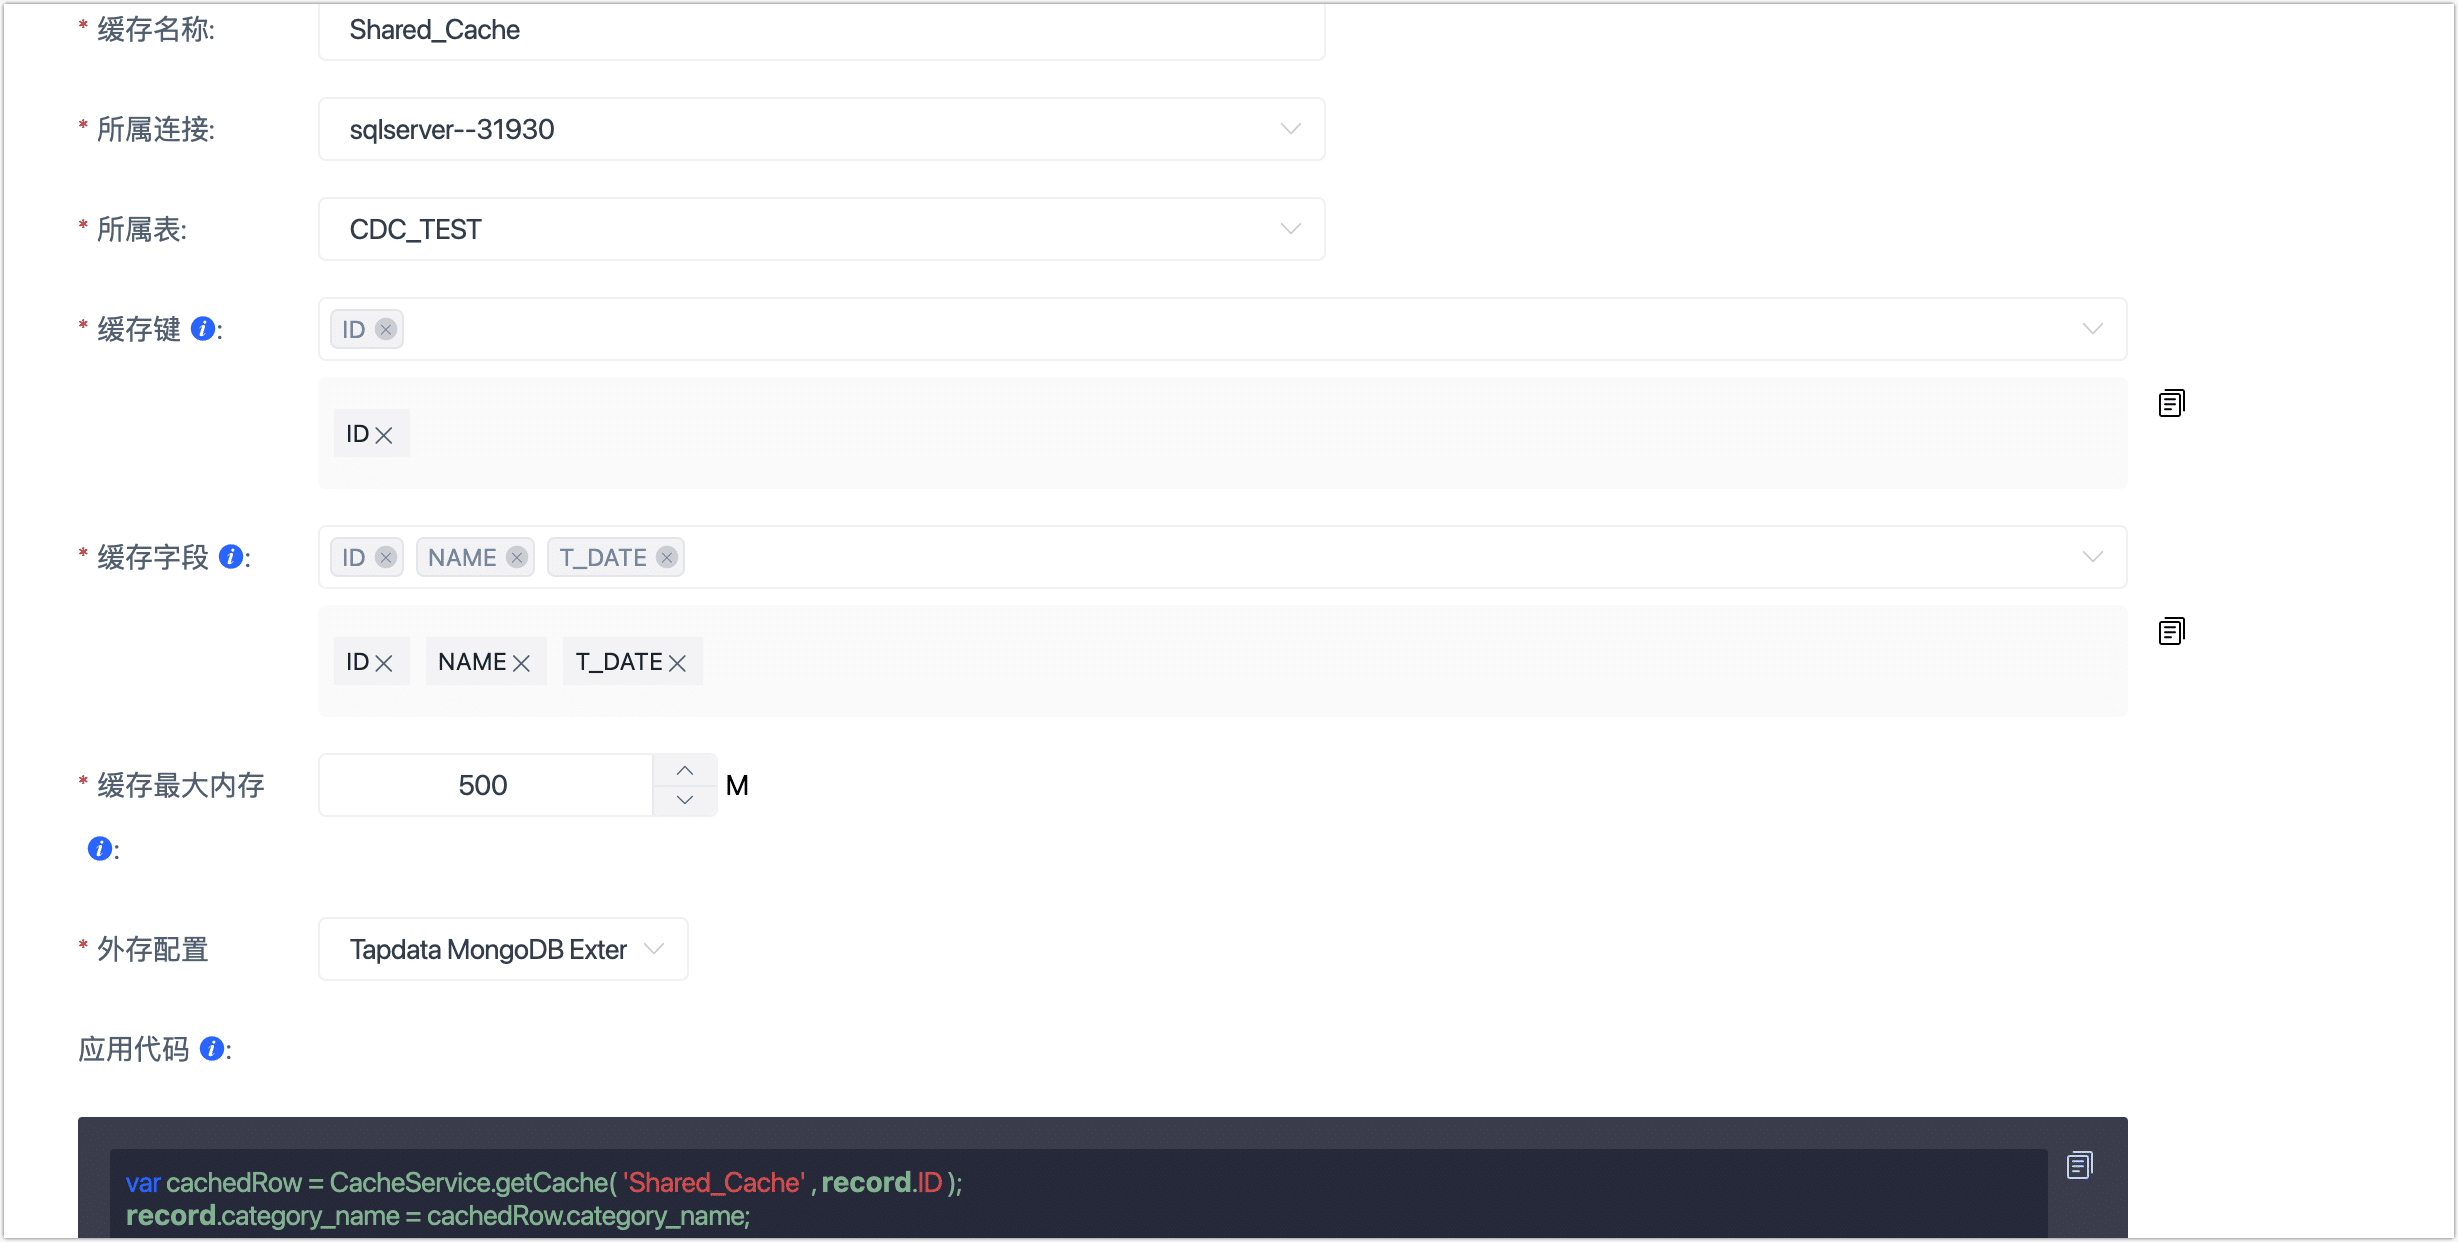
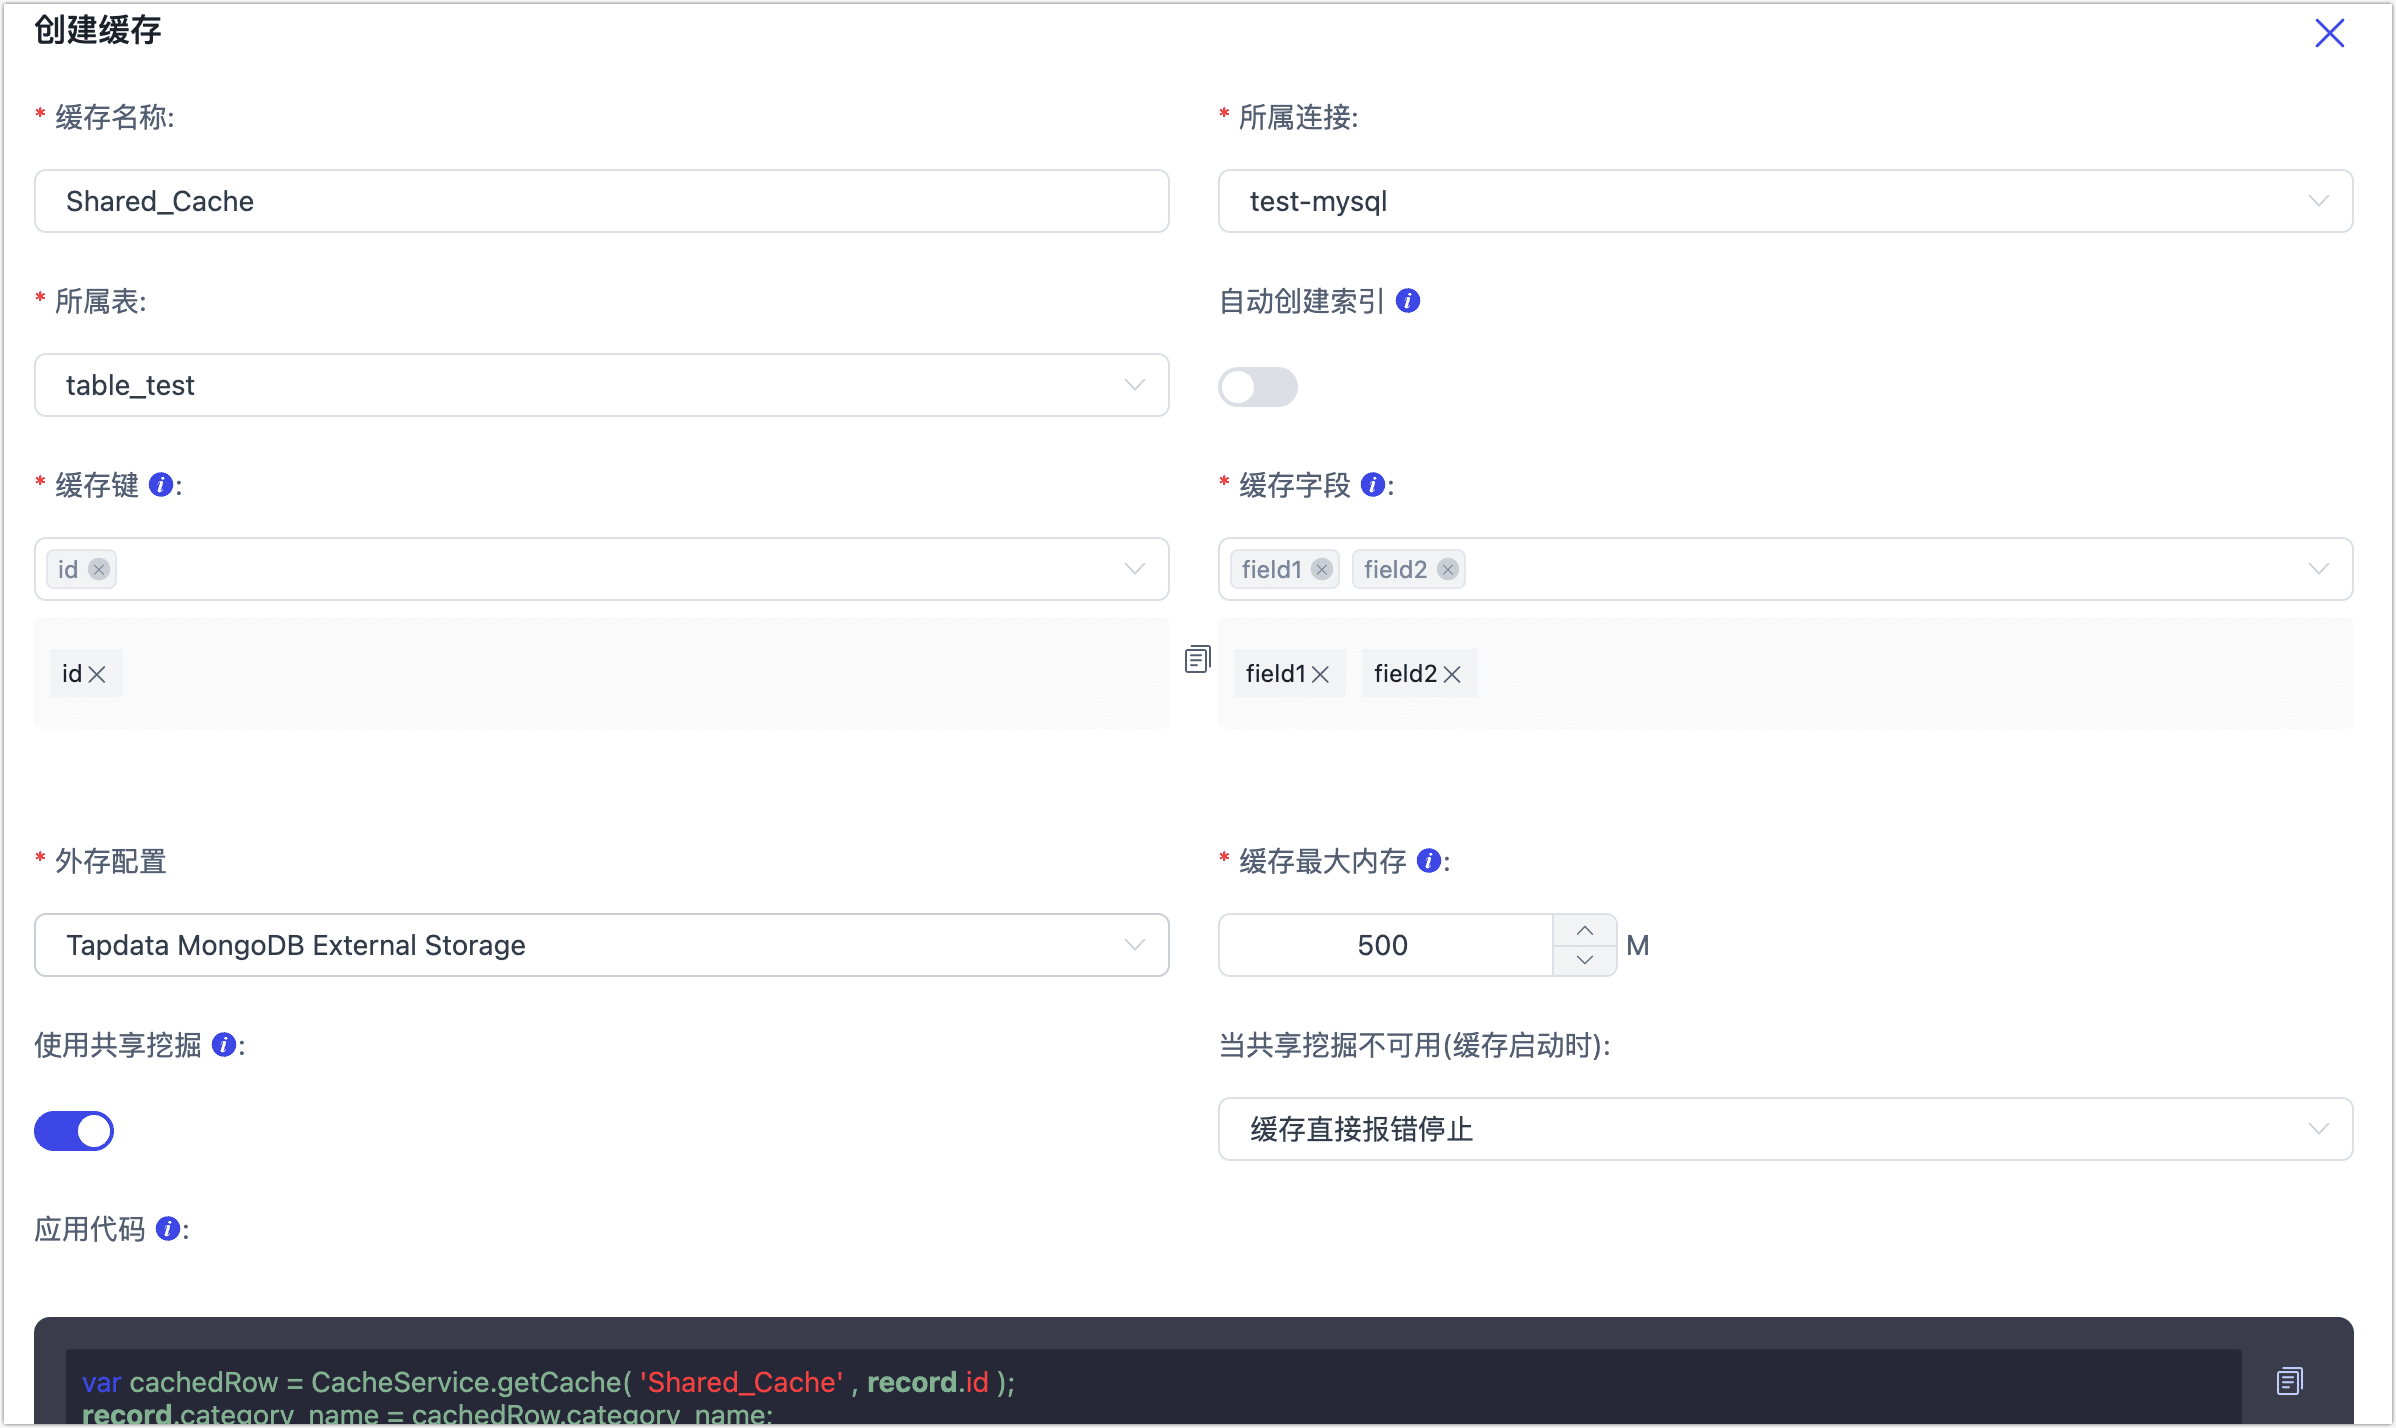
Release  v3.9

diff --git a/docs/release-notes/release-notes-on-prem.md b/docs/release-notes/release-notes-on-prem.md
@@ -6,6 +6,36 @@ import Content from '../reuse-content/_enterprise-features.md';
 
 本文介绍 TapData Enterprise V3.x 的版本更新日志，早期版本请参见 [V2.x 版本更新日志](https://docs.tapdata.net/2.0/release-notes)。
 
+## 3.9.0
+
+### 新增功能
+
+* [数据校验](../user-guide/data-pipeline/verify-data.md)新增差异数据修复能力，提升数据一致性和准确性
+* 创建[共享缓存](../user-guide/advanced-settings/share-cache.md)新增使用共享挖掘按钮，简化缓存任务配置，提升缓存共享的效率和灵活性
+
+### 功能优化
+
+* [实时数据中心](../user-guide/real-time-data-hub/README.md)功能优化：
+  * 数据加工层支持显示库中所有模型
+  * 平台缓存层与平台加工层可选择不同的的连接，设置后不可调整
+  * 增加 API 发布入口
+  * 优化模型详情的展示
+* ElasticSearch 数据源添加字段限制配置参数
+* MongoDB 数据源开启 preimage 能力时，优化异常处理逻辑
+
+### 问题修复
+
+- 修复任务事件统计指标上报时偶现丢失部分指标的问题
+- 修复共享缓存任务未执行共享挖掘时，如果数据没有变化，在重启或升级引擎时可能因超出日志时间窗口而导致任务错误的问题
+- 修复在 MDM_model 下禁用从节点后导致任务启动失败的问题
+- 修复实时数据中心的血缘图偶现无法展示的问题
+- 修复在写入模式为更新子文档的场景下，源表的 unset 操作可能导致任务报错的问题
+- 修复校验任务搜索功能不可用的问题
+- 修复 MongoDB 与 MySQL 执行 Join 合并场景下，MongoDB 集合中包含时间类型可能引发报错的问题
+- 修复在实时数据中心创建的任务无法添加主从合并节点的问题
+- 修复在主从合并场景下，增量更新事件意外执行反查的问题
+- 修复主从合并节点修改列时的冲突报错问题
+
 ## 3.8.0
 
 ### 新增功能

diff --git a/docs/user-guide/advanced-settings/share-cache.md b/docs/user-guide/advanced-settings/share-cache.md
@@ -21,13 +21,14 @@ import Content from '../../reuse-content/_enterprise-and-community-features.md';
    ![共享缓存](../../images/apply_external_storage_shared_cache_cn.png)
 
    * **缓存名称**：必填、支持中英文。
-   * **缓存主键**：必填、可多选，用来对数据进行唯一识别。
-   * **所属连接**：选择一个想要缓存的连接。
+   * **所属连接**：选择一个想要缓存的数据源连接。
    * **所属表**：选择想要缓存的表。
-   * **缓存键**：选择一个字段作为主键识别数据进行缓存。
+   * **缓存键**：可多选，用来对数据进行唯一识别，该键需具备索引。
    * **缓存字段**：选择需要进行缓存的常用字段。
-   * **缓存最大内存**：系统会保存的最大内存量，超过则按调用时间，将最不常用的数据删掉
    * **外存配置**：选择外存，您为缓存单独[创建外存](../manage-system/manage-external-storage.md)来存储相关数据。
+   * **缓存最大内存**：系统会保存的最大内存量，超过则按调用时间，将最不常用的数据删掉。
+   * **使用共享挖掘**：共享挖掘会挖掘增量日志，当有多个增量任务时不需要重复开启日志采集进程，能极大缓解源库资源的占用和浪费。
+   * **缓存最大内存**：默认为 500 MB，TapData 会保存的最大内存量，超过则按调用时间，将最不常用的数据删掉
    * **应用代码**：根据填写的信息生成，可复制后在任务的 JS 节点中进行使用该缓存。
 
 5. 单击**保存**。

diff --git a/docs/release-notes/release-notes-cloud.md b/docs/release-notes/release-notes-cloud.md
@@ -17,6 +17,30 @@ import TabItem from '@theme/TabItem';
   <TabItem value="2024 年" default>
 ```
 
+### 2024-07-05
+
+#### 功能优化
+
+* [实时数据中心](../user-guide/real-time-data-hub/README.md)功能优化：
+  * 数据加工层支持显示库中所有模型
+  * 平台缓存层与平台加工层可选择不同的的连接，设置后不可调整
+  * 增加 API 发布入口
+  * 优化模型详情的展示
+* ElasticSearch 数据源添加字段限制配置参数
+* MongoDB 数据源开启 preimage 能力时，优化异常处理逻辑
+
+#### 问题修复
+
+- 修复任务事件统计指标上报时偶现丢失部分指标的问题
+- 修复共享缓存任务未执行共享挖掘时，如果数据没有变化，在重启或升级引擎时可能因超出日志时间窗口而导致任务错误的问题
+- 修复在 MDM_model 下禁用从节点后导致任务启动失败的问题
+- 修复实时数据中心的血缘图偶现无法展示的问题
+- 修复在写入模式为更新子文档的场景下，源表的 unset 操作可能导致任务报错的问题
+- 修复 MongoDB 与 MySQL 执行 Join 合并场景下，MongoDB 集合中包含时间类型可能引发报错的问题
+- 修复在实时数据中心创建的任务无法添加主从合并节点的问题
+- 修复在主从合并场景下，增量更新事件意外执行反查的问题
+- 修复主从合并节点修改列时的冲突报错问题
+
 ### 2024-06-21
 
 #### 新增功能

diff --git a/docs/release-notes/release-notes-community.md b/docs/release-notes/release-notes-community.md
@@ -6,6 +6,26 @@ import Content from '../reuse-content/_community-features.md';
 
 本文介绍 TapData Community 近期版本的更新日志，更多早期版本，请参见 [GitHub Release 页面](https://github.com/tapdata/tapdata/releases)。
 
+## 3.9.0
+
+### 新增功能
+
+* 创建[共享缓存](../user-guide/advanced-settings/share-cache.md)新增使用共享挖掘按钮，简化缓存任务配置，提升缓存共享的效率和灵活性
+
+### 功能优化
+
+* ElasticSearch 数据源添加字段限制配置参数
+* MongoDB 数据源开启 preimage 能力时，优化异常处理逻辑
+
+### 问题修复
+
+- 修复任务事件统计指标上报时偶现丢失部分指标的问题
+- 修复共享缓存任务未执行共享挖掘时，如果数据没有变化，在重启或升级引擎时可能因超出日志时间窗口而导致任务错误的问题
+- 修复在写入模式为更新子文档的场景下，源表的 unset 操作可能导致任务报错的问题
+- 修复 MongoDB 与 MySQL 执行 Join 合并场景下，MongoDB 集合中包含时间类型可能引发报错的问题
+- 修复在主从合并场景下，增量更新事件意外执行反查的问题
+- 修复主从合并节点修改列时的冲突报错问题
+
 ## 3.8.0
 
 ### 功能优化

diff --git a/docs/user-guide/data-pipeline/verify-data.md b/docs/user-guide/data-pipeline/verify-data.md
@@ -70,7 +70,7 @@ import TabItem from '@theme/TabItem';
 
 4. 单击**保存**，返回至任务列表后单击目标校验任务对应的**执行**。
 
-5. （可选）单击校验任务对应的**详情**，查看详细校验结果。
+5. （可选）单击校验任务对应的**详情**，查看详细校验结果，针对不一致情况可单击**一键修复**完成数据对齐。
 
    ![查看校验结果](../../images//check_data_result_cn.png)
 
